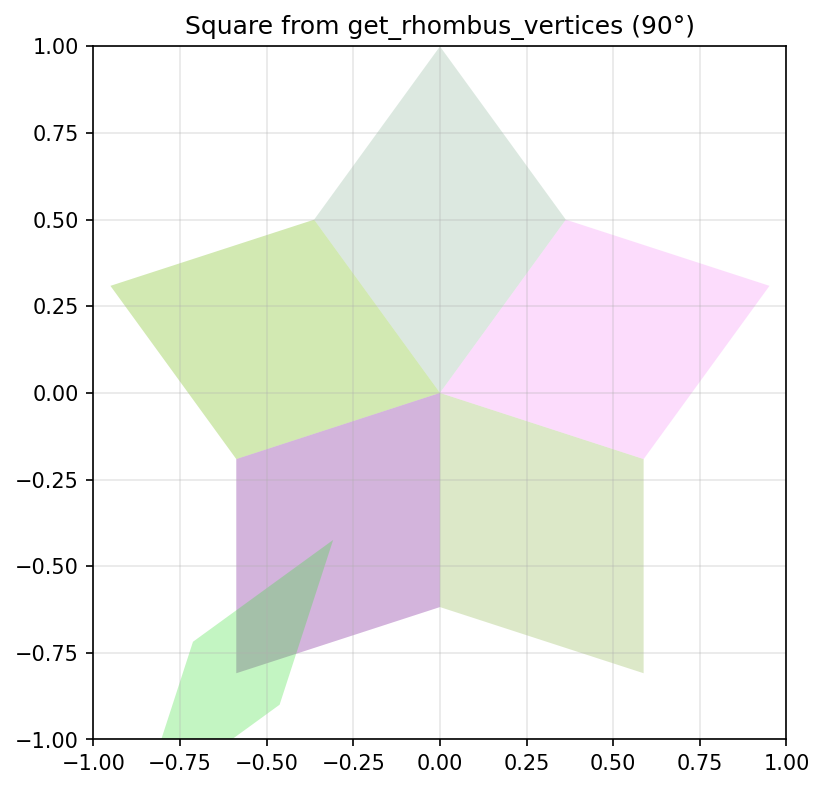
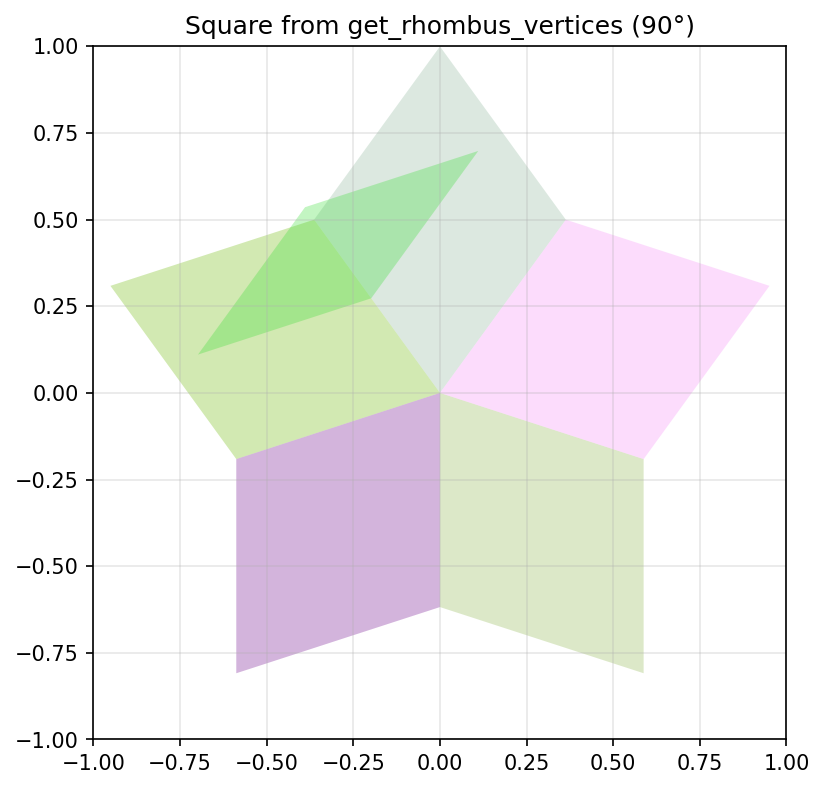
wip

Changed region(s): [[0.2427, 0.1825, 0.5765, 0.4563], [0.182, 0.6996, 0.3944, 0.943]]

diff --git a/test_main.py b/test_main.py
@@ -56,22 +56,37 @@ def test_square_tile():
 
     np.testing.assert_array_almost_equal(first_tile, expected_vertices, decimal=5)
 
+def calculate_edge_length_of_unit_height_rhombus(acute_angle: float) -> float:
+    alpha = acute_angle / 2
+    return 2 * np.cos(np.radians(alpha))
+
+
+def test_calculate_edge_length_of_unit_height_rhombus():
+    """Test the calculation of edge length for a rhombus with unit height"""
+    acute_angle = 72
+    edge_length = calculate_edge_length_of_unit_height_rhombus(acute_angle)
+    print(f"Edge length for rhombus with {acute_angle}° acute angle and unit height: {edge_length}")
+    # Expected value can be calculated or looked up; here we just check it's positive
+    assert edge_length > 0
+
 
 def test_draw_square():
     """Test drawing a square using get_rhombus_vertices"""
     scale_factor = 1.0
-    first_tile = get_rhombus_vertices((0.0, 0.5), 0, 108, scale_factor=scale_factor)
-    second_tile = get_rhombus_vertices((0.0, 0.5), 72, 108, scale_factor=scale_factor)
-    third_tile = get_rhombus_vertices((0.0, 0.5), 144, 108, scale_factor=scale_factor)
-    fourth_tile = get_rhombus_vertices((0.0, 0.5), 216, 108, scale_factor=scale_factor)
-    fifth_tile = get_rhombus_vertices((0.0, 0.5), 288, 108, scale_factor=scale_factor)
 
-    dart_hypotenuse = first_tile[0, 0] - first_tile[2, 0]
-    print(f"dart_hypotenuse: {dart_hypotenuse}")
-    dart_height = np.sin(np.radians(72))
+    acute_angle = 72
+    obtuse_angle = 180 - acute_angle  # 108 degrees
 
-    # now the darts
-    first_dart = get_rhombus_vertices((0, 1.0), 144, 144, scale_factor=dart_height)
+    first_tile = get_rhombus_vertices((0.0, 0.5), 0, obtuse_angle, scale_factor=scale_factor)
+    second_tile = get_rhombus_vertices((0.0, 0.5), 72, obtuse_angle, scale_factor=scale_factor)
+    third_tile = get_rhombus_vertices((0.0, 0.5), 144, obtuse_angle, scale_factor=scale_factor)
+    fourth_tile = get_rhombus_vertices((0.0, 0.5), 216, obtuse_angle, scale_factor=scale_factor)
+    fifth_tile = get_rhombus_vertices((0.0, 0.5), 288, obtuse_angle, scale_factor=scale_factor)
+
+    edge_length = calculate_edge_length_of_unit_height_rhombus(acute_angle)
+    first_dart = get_rhombus_vertices((0.0, 0.5), 36, 144, scale_factor=scale_factor, initial_rotation=90)
+
+    print(f"Edge length for rhombus with 108° acute angle and unit height: {edge_length}")
 
     # second_tile = get_rhombus_vertices((0, 0.5), 90 + 72, 72)
 

diff --git a/main.py b/main.py
@@ -17,6 +17,7 @@ def get_rhombus_vertices(
     angle: float,
     acute_angle: float,
     height: float = 1.0,
+    initial_rotation: float = 0.0,
     scale_factor: float = 1.0,
 ) -> np.ndarray:
     """Calculate vertices for a rhombus with specified acute angle"""
@@ -39,6 +40,8 @@ def get_rhombus_vertices(
     actual_height = 2 * d2  # vertical height of unrotated rhombus
     height_scale = height / actual_height
     vertices *= height_scale * scale_factor
+
+    vertices = rotate_shape_about_origin(vertices, initial_rotation)
 
     # Translate to center
     center_array = np.array(center)
